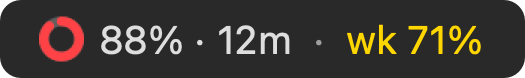
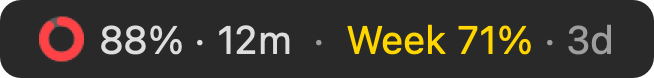
Clarify footer status and weekly usage labeling
The popover footer compared `lastUpdated` (real wall clock) against the
30s-ticking `clock`, so the two timelines drifted: a fresh refresh could
read "Updated in N sec", and after a long sleep (Timers don't fire while
asleep) it flipped to "Updated in 1 day". The menu bar's "wk 63%" chip was
also cryptic and gave no sense of when the weekly window refreshes.

- Footer: drop the "Updated … ago" timestamp entirely. The header already
  owns the manual refresh control, so the footer is now just a transient
  status line — "Updating…" while a poll is in flight, empty otherwise.
  Fold the in-flight guard into a published `isUpdating` flag.
- Menu bar: "wk 63%" → "Week 63% · 2d" — spell out the jargon and show a
  single-unit weekly reset countdown (new `compactResetDays` helper).
- Popover: weekly reset caption "resets Sat 1:00 PM" → "resets Sat, Jun 6 ·
  in 3d 2h", so it's clear both when the window refreshes and how long away
  that is. Session rows keep their short "resets in 12m" form.
- Regenerate doc screenshots from the real render code.

diff --git a/Sources/AppModel.swift b/Sources/AppModel.swift
@@ -15,7 +15,12 @@ enum LoadState {
 @MainActor
 final class AppModel: ObservableObject {
     @Published private(set) var state: LoadState = .signedOut
-    @Published private(set) var lastUpdated: Date?
+
+    /// True while a poll is in flight. The footer surfaces this as "Updating…" and
+    /// is otherwise empty: the manual refresh control lives in the header, so the
+    /// footer is just a transient status line, not a stale-timestamp readout. This
+    /// also doubles as the in-flight guard, so a burst of triggers can't overlap.
+    @Published private(set) var isUpdating = false
 
     /// A coarse wall clock that ticks every 30s. The countdowns ("resets in …",
     /// the compact menu-bar reset) are `resetDate − now`, so without a ticking
@@ -38,7 +43,6 @@ final class AppModel: ObservableObject {
     private var lastSuccess: Date?
     private var backoffUntil: Date?
     private var failureCount = 0
-    private var inFlight = false
 
     private var hasData: Bool { if case .loaded = state { return true }; return false }
 
@@ -50,9 +54,9 @@ final class AppModel: ObservableObject {
 
     /// Builds a model fixed in a given state for previews and doc snapshots.
     /// Does not load credentials or start polling.
-    init(previewState: LoadState, lastUpdated: Date? = nil) {
+    init(previewState: LoadState, isUpdating: Bool = false) {
         self.state = previewState
-        self.lastUpdated = lastUpdated
+        self.isUpdating = isUpdating
     }
 
     func start() {
@@ -80,20 +84,19 @@ final class AppModel: ObservableObject {
             if let until = backoffUntil, now < until { return }
             if let last = lastSuccess, now.timeIntervalSince(last) < openThrottle { return }
         }
-        guard !inFlight else { return }
+        guard !isUpdating else { return }
         guard let token = OAuthToken.load() else {
             state = .signedOut
             return
         }
         if !hasData { state = .loading } // only show the spinner when we have nothing to show
 
-        inFlight = true
+        isUpdating = true
         Task {
-            defer { inFlight = false }
+            defer { isUpdating = false }
             do {
                 let usage = try await UsageAPI.fetch(token: token)
                 self.state = .loaded(usage)
-                self.lastUpdated = Date()
                 self.lastSuccess = Date()
                 self.backoffUntil = nil
                 self.failureCount = 0
@@ -150,7 +153,7 @@ final class AppModel: ObservableObject {
         clockTimer?.invalidate()
         clockTimer = nil
         state = .signedOut
-        lastUpdated = nil
+        isUpdating = false
     }
 
     var isSignedIn: Bool {
@@ -171,8 +174,8 @@ enum UsageFormat {
         }
     }
 
-    /// Compact reset for the menu bar title, e.g. "52m" or "1h4m". Empty if unknown.
-    /// `now` is injectable so doc snapshots render deterministically.
+    /// Compact reset for the menu bar session chip, e.g. "52m" or "1h4m". Empty if
+    /// unknown. `now` is injectable so doc snapshots render deterministically.
     static func compactReset(_ date: Date?, now: Date = Date()) -> String {
         guard let date else { return "" }
         let secs = date.timeIntervalSince(now)
@@ -182,7 +185,22 @@ enum UsageFormat {
         return h > 0 ? "\(h)h\(m)m" : "\(m)m"
     }
 
-    /// "resets in 1h 4m" for short windows, "resets Sat 1:00 PM" for weekly ones.
+    /// Single-unit countdown for the menu bar weekly chip, e.g. "3d", "5h", "20m".
+    /// Weekly windows span days, so one coarse unit reads cleaner in the bar than
+    /// the session chip's hours+minutes.
+    static func compactResetDays(_ date: Date?, now: Date = Date()) -> String {
+        guard let date else { return "" }
+        let secs = Int(date.timeIntervalSince(now))
+        if secs <= 0 { return "now" }
+        if secs >= 86400 { return "\(secs / 86400)d" }
+        if secs >= 3600 { return "\(secs / 3600)h" }
+        return "\(max(1, secs / 60))m"
+    }
+
+    /// Reset caption under each popover bar. Short windows (the session) read
+    /// "resets in 1h 4m". Weekly windows show both the calendar date and a coarse
+    /// countdown — "resets Sat, Jun 6 · in 3d 2h" — so it's clear WHEN the window
+    /// refreshes and HOW LONG away that is.
     static func resetText(_ date: Date?, now: Date = Date()) -> String {
         guard let date else { return "" }
         let secs = date.timeIntervalSince(now)
@@ -194,7 +212,11 @@ enum UsageFormat {
             return "resets in \(m)m"
         }
         let f = DateFormatter()
-        f.dateFormat = "EEE h:mm a"
-        return "resets \(f.string(from: date))"
+        f.dateFormat = "EEE, MMM d"
+        let s = Int(secs)
+        let d = s / 86400
+        let h = (s % 86400) / 3600
+        let countdown = d >= 1 ? (h > 0 ? "in \(d)d \(h)h" : "in \(d)d") : "in \(h)h"
+        return "resets \(f.string(from: date)) · \(countdown)"
     }
 }

diff --git a/Sources/UsageView.swift b/Sources/UsageView.swift
@@ -157,8 +157,8 @@ struct UsageView: View {
 
     private var footer: some View {
         HStack {
-            if let updated = model.lastUpdated {
-                Text("Updated \(relative(updated))")
+            if model.isUpdating {
+                Text("Updating…")
                     .font(.system(size: 10.5))
                     .foregroundStyle(.tertiary)
             }
@@ -176,12 +176,6 @@ struct UsageView: View {
         }
         .padding(.horizontal, 14)
         .padding(.vertical, 8)
-    }
-
-    private func relative(_ date: Date) -> String {
-        let f = RelativeDateTimeFormatter()
-        f.unitsStyle = .short
-        return f.localizedString(for: date, relativeTo: effectiveNow)
     }
 }
 

diff --git a/docs/render/main.swift b/docs/render/main.swift
@@ -92,8 +92,8 @@ func menuBarStrip(_ state: LoadState, settings: SettingsStore, now: Date, scale:
 // MARK: - Panel (uses the real UsageView)
 
 @MainActor
-func panel(_ state: LoadState, settings: SettingsStore, now: Date, lastUpdated: Date?) -> NSBitmapImageRep? {
-    let model = AppModel(previewState: state, lastUpdated: lastUpdated)
+func panel(_ state: LoadState, settings: SettingsStore, now: Date) -> NSBitmapImageRep? {
+    let model = AppModel(previewState: state)
     let root = UsageView(model: model, settings: settings, onQuit: {}, now: now)
         .background(Color(NSColor.windowBackgroundColor))
 
@@ -146,15 +146,15 @@ write(panel(.loaded(Usage(
     five_hour: session(34, minutes: 52),
     seven_day: weekly(18),
     seven_day_sonnet: weekly(2),
-    seven_day_opus: nil)), settings: defaults, now: now, lastUpdated: now), "panel-loaded.png")
+    seven_day_opus: nil)), settings: defaults, now: now), "panel-loaded.png")
 
 write(panel(.loaded(Usage(
     five_hour: session(88, minutes: 12),
     seven_day: weekly(71),
     seven_day_sonnet: weekly(23),
-    seven_day_opus: nil)), settings: defaults, now: now, lastUpdated: now), "panel-high.png")
+    seven_day_opus: nil)), settings: defaults, now: now), "panel-high.png")
 
-write(panel(.signedOut, settings: defaults, now: now, lastUpdated: nil), "panel-signedout.png")
+write(panel(.signedOut, settings: defaults, now: now), "panel-signedout.png")
 }
 
 MainActor.assumeIsolated { renderAll() }

diff --git a/Sources/MenuBarIcon.swift b/Sources/MenuBarIcon.swift
@@ -71,10 +71,14 @@ enum MenuBarRenderer {
                let weekly = usage.seven_day,
                weekly.percent >= settings.weeklyThreshold {
                 title.append(plain("  ·  ", color: .secondaryLabelColor))
-                title.append(NSAttributedString(string: "wk \(weekly.percent)%", attributes: [
+                title.append(NSAttributedString(string: "Week \(weekly.percent)%", attributes: [
                     .font: NSFont.menuBarFont(ofSize: 0),
                     .foregroundColor: UsageFormat.color(for: weekly.percent),
                 ]))
+                let wkReset = UsageFormat.compactResetDays(weekly.resetDate, now: now)
+                if !wkReset.isEmpty {
+                    title.append(plain(" · \(wkReset)", color: .secondaryLabelColor))
+                }
             }
             return MenuBarContent(image: image, title: title)
         }